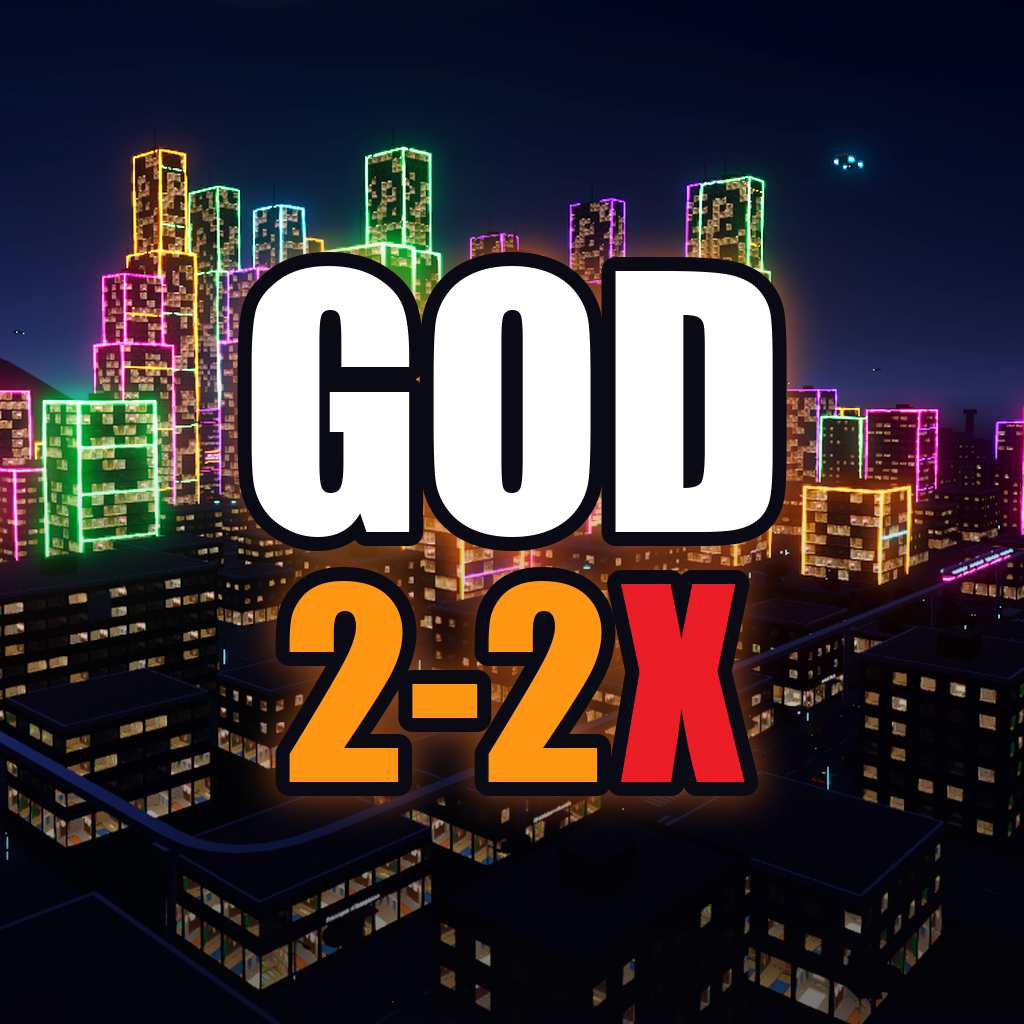
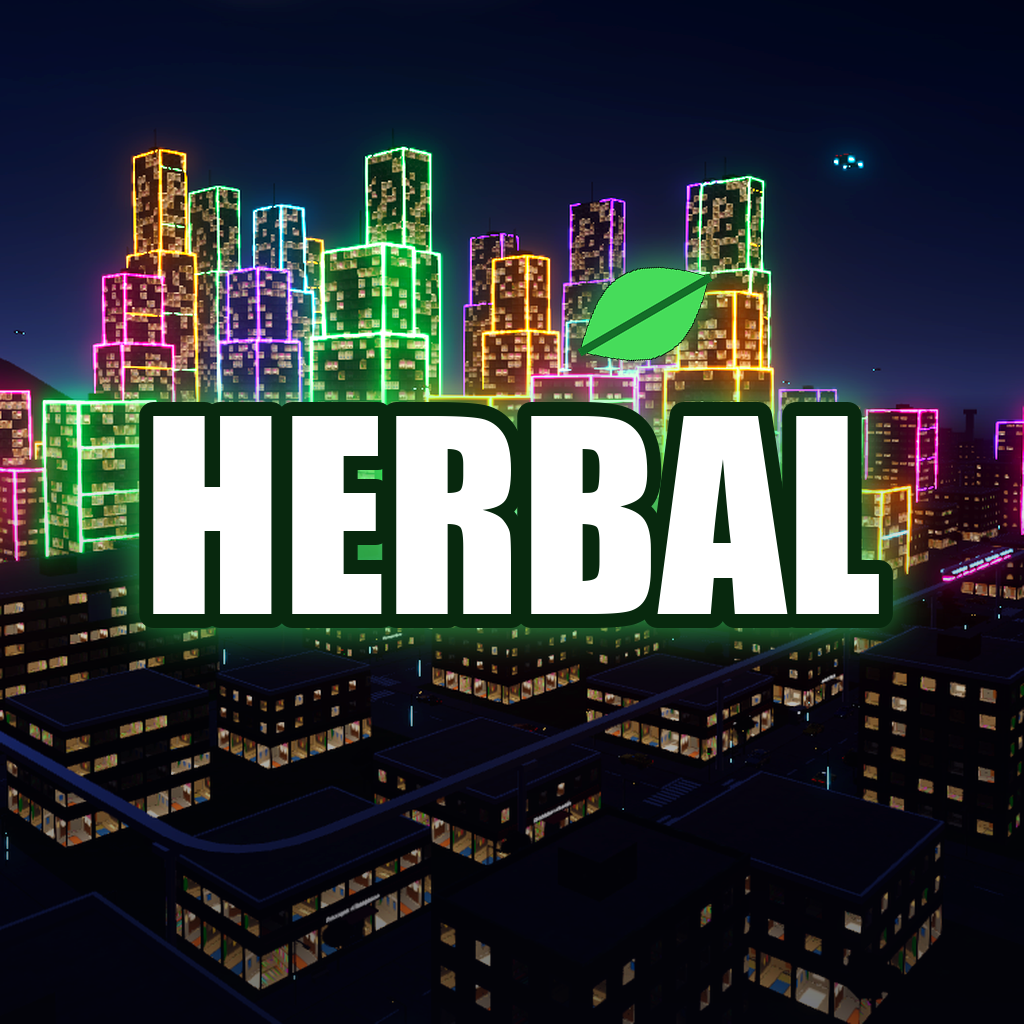
v0.5 Herbal: rename, main menu, touch camera fix

Changed region(s): [[0.0938, 0.2188, 0.9062, 0.8125]]

diff --git a/UnityProject/Assets/WebGLTemplates/Gad/index.html b/UnityProject/Assets/WebGLTemplates/Gad/index.html
@@ -6,7 +6,7 @@
   <meta name="mobile-web-app-capable" content="yes">
   <meta name="apple-mobile-web-app-capable" content="yes">
   <meta name="apple-mobile-web-app-status-bar-style" content="black-translucent">
-  <meta name="apple-mobile-web-app-title" content="GOD 2-2X">
+  <meta name="apple-mobile-web-app-title" content="Herbal">
   <link rel="apple-touch-icon" href="apple-touch-icon.png">
   <meta name="theme-color" content="#050912">
   <title>{{{ PRODUCT_NAME }}}</title>

diff --git a/UnityProject/Assets/Scripts/UI/MainMenu.cs b/UnityProject/Assets/Scripts/UI/MainMenu.cs
@@ -1,0 +1,120 @@
+using TMPro;
+using UnityEngine;
+using UnityEngine.UI;
+
+namespace Gad
+{
+    /// <summary>
+    /// The title screen: the live city behind (a slow cinematic camera circling the player's street),
+    /// the HERBAL logo and the main buttons — play, character, settings. Shown on every start and from
+    /// the phone; the HUD and the player's controls are off while it is open.
+    /// </summary>
+    public class MainMenu : MonoBehaviour
+    {
+        public static MainMenu I;
+        public static bool Open => I != null && I.gameObject.activeSelf;
+
+        TextMeshProUGUI nick, online;
+        Vector3 centre;
+        float t;
+
+        public static void Show()
+        {
+            if (I == null)
+            {
+                var rt = UIKit.Fill(UIKit.Rect("MainMenu", UIRoot.Root));
+                rt.SetSiblingIndex(UIRoot.WinLayer.GetSiblingIndex());   // above the HUD, under the windows
+                I = rt.gameObject.AddComponent<MainMenu>();
+                I.Build();
+            }
+            if (UIRoot.Open != null) Window.Close();
+            I.gameObject.SetActive(true);
+            I.centre = PlayerCtl.I != null ? PlayerCtl.I.transform.position : City.Spawn;
+            if (PlayerCtl.I != null) PlayerCtl.I.MoveInput = Vector2.zero;
+            UIRoot.HudLayer.gameObject.SetActive(false);
+            PlayerCtl.ShotCam = true;
+            I.Refresh();
+        }
+
+        public static void Hide()
+        {
+            if (I == null) return;
+            I.gameObject.SetActive(false);
+            UIRoot.HudLayer.gameObject.SetActive(true);
+            PlayerCtl.ShotCam = false;
+        }
+
+        void Build()
+        {
+            var t = transform;
+            var safe = UIRoot.Safe();
+            float sl = Mathf.Max(40, safe.x + 24);
+
+            // a dark band on the left so the logo and buttons read over any part of the city
+            var band = UIKit.Img(t, UIKit.White, new Color(0.02f, 0.04f, 0.08f, 0.72f), "Band", true);
+            band.rectTransform.anchorMin = Vector2.zero; band.rectTransform.anchorMax = new Vector2(0.46f, 1f);
+            band.rectTransform.offsetMin = band.rectTransform.offsetMax = Vector2.zero;
+            var edge = UIKit.Img(band.transform, UIKit.White, new Color(0.3f, 1f, 0.45f, 0.55f), "Edge");
+            edge.rectTransform.anchorMin = new Vector2(1, 0); edge.rectTransform.anchorMax = Vector2.one;
+            edge.rectTransform.offsetMin = new Vector2(-4, 0); edge.rectTransform.offsetMax = Vector2.zero;
+
+            var col = UIKit.Rect("Column", band.transform);
+            col.anchorMin = Vector2.zero; col.anchorMax = Vector2.one;
+            col.offsetMin = new Vector2(sl, 40); col.offsetMax = new Vector2(-40, -40);
+
+            // logo: HERBAL with a green leaf, and the tagline
+            var logo = UIKit.Txt(col, "HERBAL", 150, Color.white, TextAlignmentOptions.Left);
+            UIKit.Place(logo.rectTransform, new Vector2(0, 1), new Vector2(0, 1), new Vector2(0, -20), new Vector2(820, 170));
+            logo.enableAutoSizing = true; logo.fontSizeMin = 60; logo.fontSizeMax = 150;
+            logo.outlineColor = new Color32(20, 120, 50, 255); logo.outlineWidth = 0.18f;
+            var bar = UIKit.Img(col, UIKit.Pill, UIKit.Lime, "Bar");
+            UIKit.Place(bar.rectTransform, new Vector2(0, 1), new Vector2(0, 1), new Vector2(6, -196), new Vector2(260, 10));
+            var tag = UIKit.Txt(col, "ГОРОД БУДУЩЕГО · ОНЛАЙН", 30, UIKit.Muted, TextAlignmentOptions.Left);
+            UIKit.Place(tag.rectTransform, new Vector2(0, 1), new Vector2(0, 1), new Vector2(4, -214), new Vector2(820, 44));
+
+            // buttons
+            float y = -300;
+            UIButton Btn(string label, Color c, System.Action a, float h, float font)
+            {
+                var b = UIKit.Button(col, label, c, a, font);
+                UIKit.Place(b.Bg.rectTransform, new Vector2(0, 1), new Vector2(0, 1), new Vector2(0, y), new Vector2(560, h));
+                y -= h + 18;
+                return b;
+            }
+            Btn("ИГРАТЬ", new Color(0.15f, 0.72f, 0.32f), Play, 120, 52);
+            Btn("ПЕРСОНАЖ", new Color(0.2f, 0.42f, 0.85f), () => Menus.Dress(false), 86, 34);
+            Btn("НАСТРОЙКИ", new Color(0.32f, 0.36f, 0.45f), Menus.Settings, 86, 34);
+
+            nick = UIKit.Txt(col, "", 28, Color.white, TextAlignmentOptions.BottomLeft);
+            UIKit.Place(nick.rectTransform, Vector2.zero, Vector2.zero, new Vector2(0, 46), new Vector2(820, 40));
+            online = UIKit.Txt(col, "", 24, UIKit.Lime, TextAlignmentOptions.BottomLeft);
+            UIKit.Place(online.rectTransform, Vector2.zero, Vector2.zero, new Vector2(0, 8), new Vector2(820, 34));
+        }
+
+        void Refresh()
+        {
+            bool hasNick = Save.D.created && !string.IsNullOrEmpty(Save.D.name) && Save.D.name.Length >= 3;
+            nick.text = hasNick ? "Игрок: " + Save.D.name + "   " + Hud.Money(Save.D.money) : "Новый игрок";
+        }
+
+        void Play()
+        {
+            Hide();
+            if (!Save.D.created || string.IsNullOrEmpty(Save.D.name) || Save.D.name.Length < 3) Menus.Nick();
+            else Hud.Toast("С возвращением, " + Save.D.name + "!", UIKit.Cyan);
+        }
+
+        void LateUpdate()
+        {
+            // slow orbit round the player's street, high enough to see the rooftops and the skyline
+            t += Time.unscaledDeltaTime;
+            float a = t * 0.06f;
+            var pos = centre + new Vector3(Mathf.Sin(a) * 80f, 48f + Mathf.Sin(t * 0.13f) * 5f, Mathf.Cos(a) * 80f);
+            PlayerCtl.ShotCam = true;
+            PlayerCtl.ShotPos = pos;
+            PlayerCtl.ShotLook = centre + Vector3.up * 8f;
+            online.text = "● в мире: " + (WorldNet.OnlineCount + 1) + (WorldNet.Connected ? "" : "  (подключение…)");
+            if (UIRoot.Open == null) Refresh();
+        }
+    }
+}

diff --git a/UnityProject/Assets/Scripts/UI/Menus.cs b/UnityProject/Assets/Scripts/UI/Menus.cs
@@ -27,6 +27,7 @@ namespace Gad
                 w.Row("Такси (быстро)", "Перенестись в любое место города за $60", "ВЫБРАТЬ", Orange, () => Travel(null));
                 w.Row("Скины", "Готовые образы: бизнесмен, киберпанк, инопланетянин…", "СКИНЫ", new Color(0.55f, 0.3f, 0.9f), Skins);
                 w.Row("Настройки", "Графика, звук, имя", "ОТКРЫТЬ", Grey, Settings);
+                w.Row("Главное меню", "Выйти на титульный экран Herbal", "МЕНЮ", Grey, MainMenu.Show);
             });
         }
 
@@ -175,7 +176,7 @@ namespace Gad
         public static void RealEstate()
         {
             int tab = 0;
-            Window.Show("GOD CITY · НЕДВИЖИМОСТЬ", w =>
+            Window.Show("HERBAL CITY · НЕДВИЖИМОСТЬ", w =>
             {
                 var tabs = new List<(string, Color, bool, System.Action)>
                 {
@@ -583,7 +584,7 @@ namespace Gad
                 UIKit.Fill(input.GetComponent<RectTransform>(), 0, 4, 220, 4);
                 var ok = UIKit.Button(row, "СОХРАНИТЬ", Green, () => { if (input.text.Trim().Length >= 2) { Save.D.name = input.text.Trim(); Save.Write(); Hud.Toast("Имя изменено"); } }, 24);
                 UIKit.Place(ok.Bg.rectTransform, new Vector2(1, 0.5f), new Vector2(1, 0.5f), Vector2.zero, new Vector2(210, 76));
-                w.Text("GOD 2-2X · версия " + Application.version + "\nУправление на компьютере: WASD — ходьба/руль, мышь (правая кнопка) — камера, Shift — бег, Пробел — прыжок/тормоз, E — действие, F — сесть/выйти.", 22, UIKit.Muted);
+                w.Text("Herbal · версия " + Application.version + "\nУправление на компьютере: WASD — ходьба/руль, мышь (правая кнопка) — камера, Shift — бег, Пробел — прыжок/тормоз, E — действие, F — сесть/выйти.", 22, UIKit.Muted);
             });
         }
 
@@ -598,7 +599,7 @@ namespace Gad
         /// <summary>First launch: the player must choose a nickname before anything else.</summary>
         public static void Nick()
         {
-            var w = Window.Show("ДОБРО ПОЖАЛОВАТЬ В GOD 2-2X", win =>
+            var w = Window.Show("ДОБРО ПОЖАЛОВАТЬ В Herbal", win =>
             {
                 win.Text("Придумайте ник — его увидят другие игроки над вашей головой и в чате.", 28);
                 var row = UIKit.Rect("Nick", win.Content);
@@ -651,7 +652,7 @@ namespace Gad
                     PlayerCtl.I.Body.Rebuild(Save.D.skin);
                     WorldNet.LookChanged();
                     Window.Close();
-                    if (creation) Hud.Toast("Добро пожаловать в GOD 2-2X, " + Save.D.name + "!", UIKit.Cyan);
+                    if (creation) Hud.Toast("Добро пожаловать в Herbal, " + Save.D.name + "!", UIKit.Cyan);
                 });
                 var tabs = new List<(string, Color, bool, System.Action)>();
                 for (int i = 0; i < Depts.Length; i++) { int k = i; tabs.Add((Depts[i].name, new Color(0.2f, 0.4f, 0.75f), dept == i, () => { dept = k; Window.Refresh(); })); }

diff --git a/assets_src/tools/appicon.py b/assets_src/tools/appicon.py
@@ -1,4 +1,4 @@
-"""GOD 2-2X app icon: the night skyline from the game with the logo. Usage: python3 appicon.py shot.png outdir"""
+"""Herbal app icon: the night skyline from the game with the logo. Usage: python3 appicon.py shot.png outdir"""
 import sys
 from PIL import Image, ImageDraw, ImageFont, ImageFilter, ImageEnhance
 shot, out = sys.argv[1], sys.argv[2]
@@ -7,18 +7,23 @@ bg = im.crop((int(232*k), int(60*k), int(612*k), int(440*k))).resize((1024, 1024
 bg = ImageEnhance.Color(ImageEnhance.Brightness(bg).enhance(1.25)).enhance(1.25)
 F = "/System/Library/Fonts/Supplemental/Impact.ttf"
 def logo(size, scale=1.0):
+    """HERBAL in white with a green outline glow and a leaf over the A."""
     L = Image.new("RGBA", size, (0, 0, 0, 0)); d = ImageDraw.Draw(L)
-    big = ImageFont.truetype(F, int(330*scale)); mid = ImageFont.truetype(F, int(250*scale))
-    cx = size[0] // 2
-    parts = [("2-2", mid, (255, 150, 20)), ("X", mid, (235, 30, 40))]
-    # GOD on top, 2-2X below
-    def stroke_text(xy, s, font, fill, anchor):
-        d.text(xy, s, font=font, fill=fill, anchor=anchor, stroke_width=int(14*scale), stroke_fill=(10, 10, 20))
-    stroke_text((cx, int(size[1]*0.52)), "GOD", big, (255, 255, 255), "ms")
-    w22 = d.textlength("2-2", font=mid); wx = d.textlength("X", font=mid); gap = 14*scale
-    x0 = cx - (w22 + gap + wx) / 2; y = int(size[1]*0.52 + 250*scale)
-    stroke_text((x0, y), "2-2", mid, parts[0][2], "ls"); stroke_text((x0 + w22 + gap, y), "X", mid, parts[1][2], "ls")
-    glow = L.filter(ImageFilter.GaussianBlur(18*scale)); g = Image.new("RGBA", size, (255, 120, 30, 0)); g.putalpha(glow.split()[3].point(lambda a: a*0.6))
+    font = ImageFont.truetype(F, int(250*scale))
+    cx, y = size[0] // 2, int(size[1]*0.6)
+    d.text((cx, y), "HERBAL", font=font, fill=(255, 255, 255), anchor="ms", stroke_width=int(14*scale), stroke_fill=(8, 40, 14))
+    w = d.textlength("HERBAL", font=font)
+    # a leaf above the text: two arcs meeting at the tips, with a vein
+    lx, ly, lw, lh = cx + w*0.18, y - 300*scale, 150*scale, 90*scale
+    import math
+    pts = [(lx + lw*math.cos(a)*0.5*(1 if i < 20 else 1), ly - lh*math.sin(a)*0.5*(1 if i < 20 else -1)) for i, a in enumerate([k*math.pi/19 for k in range(20)] + [k*math.pi/19 for k in range(19, -1, -1)])]
+    pts = [(lx - lw/2 + lw*k/19, ly - lh/2*math.sin(k*math.pi/19)) for k in range(20)] + [(lx + lw/2 - lw*k/19, ly + lh/2*math.sin(k*math.pi/19)) for k in range(20)]
+    leaf = Image.new("RGBA", size, (0, 0, 0, 0)); ld = ImageDraw.Draw(leaf)
+    ld.polygon(pts, fill=(70, 220, 90), outline=(8, 40, 14))
+    ld.line([(lx - lw/2, ly), (lx + lw/2, ly)], fill=(20, 110, 40), width=int(8*scale))
+    leaf = leaf.rotate(30, center=(lx, ly), resample=Image.BICUBIC)
+    L = Image.alpha_composite(L, leaf)
+    glow = L.filter(ImageFilter.GaussianBlur(20*scale)); g = Image.new("RGBA", size, (60, 255, 110, 0)); g.putalpha(glow.split()[3].point(lambda a: a*0.7))
     return Image.alpha_composite(g, L)
 shade = Image.new("RGBA", (1024, 1024), (0, 0, 0, 0)); sd = ImageDraw.Draw(shade)
 for y in range(1024): sd.line([(0, y), (1024, y)], fill=(5, 5, 15, int(150 * max(0, (y - 380) / 644))))

diff --git a/UnityProject/Assets/Scripts/Core/AutoTest.cs b/UnityProject/Assets/Scripts/Core/AutoTest.cs
@@ -398,6 +398,28 @@ namespace Gad
             Menus.Phone(); yield return Wait(0.4f); yield return Shot("60_phone"); Window.Close();
             Menus.Map(); yield return Wait(0.4f); yield return Shot("61_map"); Window.Close();
             Menus.Dress(false, true); yield return Wait(5f); yield return Shot("62_create"); Window.Close();
+            // title screen
+            MainMenu.Show(); yield return Wait(1.5f); yield return Shot("66_main_menu");
+            Check("главное меню открыто, HUD спрятан", MainMenu.Open && !UIRoot.HudLayer.gameObject.activeSelf);
+            MainMenu.Hide(); yield return null;
+            Check("из меню в игру", !MainMenu.Open && UIRoot.HudLayer.gameObject.activeSelf && !PlayerCtl.ShotCam);
+            // touch camera: a new touch reusing a finger id must not throw the camera to the old spot
+            {
+                var la = FindFirstObjectByType<LookArea>();
+                var es = UnityEngine.EventSystems.EventSystem.current;
+                float yaw0 = pl.Yaw, pitch0 = pl.Pitch;
+                var e = new UnityEngine.EventSystems.PointerEventData(es) { pointerId = 0, position = new Vector2(Screen.width * 0.8f, Screen.height * 0.2f) };
+                la.OnPointerDown(e); la.OnPointerUp(e);
+                e = new UnityEngine.EventSystems.PointerEventData(es) { pointerId = 0, position = new Vector2(Screen.width * 0.3f, Screen.height * 0.7f), delta = new Vector2(-900, 500) };
+                la.OnPointerDown(e);
+                e.position += new Vector2(40, 0); e.delta = new Vector2(-860, 500); la.OnDrag(e);
+                yield return null;
+                float dy = Mathf.DeltaAngle(yaw0, pl.Yaw);
+                Check("камера пальцем: вправо → вправо, без рывка", dy > 2f && dy < 30f && Mathf.Abs(pl.Pitch - pitch0) < 3f, $"поворот {dy:0.0}°");
+                e.position += new Vector2(0, -60); la.OnDrag(e); yield return null;
+                Check("камера пальцем: вниз → смотрит вниз", pl.Pitch > pitch0 + 1f, $"наклон {pl.Pitch - pitch0:0.0}°");
+                la.OnPointerUp(e);
+            }
             Menus.CarDealer(dealer); yield return Wait(0.4f); yield return Shot("63_dealer"); Window.Close();
             Menus.Skins(); yield return Wait(0.4f); yield return Shot("64_skins"); Window.Close();
             int bad = 0;

diff --git a/UnityProject/Assets/Scripts/Core/Defs.cs b/UnityProject/Assets/Scripts/Core/Defs.cs
@@ -47,12 +47,12 @@ namespace Gad
             [BType.JobCenter] = new BInfo { Title = "Центр занятости", Names = new[] { "Центр занятости" }, Sign = new Color(0.15f, 0.6f, 0.8f) },
             [BType.GasStation] = new BInfo { Title = "Заправка", Names = new[] { "АЗС «Петрол»", "АЗС «Газ+»" }, BizPrice = 110000, Sign = new Color(0.1f, 0.65f, 0.3f) },
             [BType.Parking] = new BInfo { Title = "Подземная парковка", Names = new[] { "Паркинг P1", "Паркинг P2", "Паркинг «Центр»" }, BizPrice = 150000, Sign = new Color(0.15f, 0.4f, 0.9f) },
-            [BType.Airport] = new BInfo { Title = "Аэропорт", Names = new[] { "Аэропорт GOD" }, Sign = new Color(0.2f, 0.5f, 0.9f) },
+            [BType.Airport] = new BInfo { Title = "Аэропорт", Names = new[] { "Аэропорт Herbal" }, Sign = new Color(0.2f, 0.5f, 0.9f) },
             [BType.Station] = new BInfo { Title = "Вокзал", Names = new[] { "Центральный вокзал" }, Sign = new Color(0.35f, 0.35f, 0.75f) },
             [BType.Port] = new BInfo { Title = "Морской порт", Names = new[] { "Морской порт" }, Sign = new Color(0.1f, 0.4f, 0.7f) },
             [BType.Clothes] = new BInfo { Title = "Магазин одежды", Names = new[] { "Бутик «Стиль»", "Одежда «Тренд»", "Мода Плюс" }, BizPrice = 75000, Sign = new Color(0.9f, 0.3f, 0.6f) },
             [BType.Furniture] = new BInfo { Title = "Мебельный", Names = new[] { "Мебель «Дом»", "Интерьер Центр" }, BizPrice = 85000, Sign = new Color(0.6f, 0.45f, 0.3f) },
-            [BType.Agency] = new BInfo { Title = "Агентство недвижимости", Names = new[] { "GOD City · Недвижимость" }, Sign = new Color(0.2f, 0.9f, 1f) },
+            [BType.Agency] = new BInfo { Title = "Агентство недвижимости", Names = new[] { "Herbal City · Недвижимость" }, Sign = new Color(0.2f, 0.9f, 1f) },
             [BType.Gym] = new BInfo { Title = "Спортзал", Names = new[] { "Фитнес «Сила»", "Спортзал «Атлет»" }, BizPrice = 65000, Sign = new Color(0.95f, 0.35f, 0.1f) },
         };
     }

diff --git a/UnityProject/Assets/Scripts/World/Interiors.cs b/UnityProject/Assets/Scripts/World/Interiors.cs
@@ -864,7 +864,7 @@ namespace Gad
                     Sofa(new Vector3(9, 0, 4), 270, new Color(0.9f, 0.9f, 0.92f)); Sofa(new Vector3(-6, 0, 4), 90, new Color(0.9f, 0.9f, 0.92f));
                     for (int k = 0; k < 4; k++) Npc(new Vector3(-4 + k * 3, 0, 6 + (k % 2) * 2), k * 90, b.id + 40 + k, 0);
                     Plant(new Vector3(-13.5f, 0, 20.5f), 1.4f); Plant(new Vector3(13.5f, 0, 1.5f), 1.4f);
-                    Sign(new Vector3(0, 5.6f, 21.8f), "GOD CITY · НЕДВИЖИМОСТЬ", new Color(0.2f, 0.9f, 1f), 7);
+                    Sign(new Vector3(0, 5.6f, 21.8f), "HERBAL CITY · НЕДВИЖИМОСТЬ", new Color(0.2f, 0.9f, 1f), 7);
                     Sign(new Vector3(EX, 3.4f, 21.85f), "ЛИФТ · 20 ЭТАЖЕЙ", Color.white, 2.5f);
                     for (int k = 0; k < 3; k++) Point(new Vector3(-8 + k * 8, 0, 16.2f), "АГЕНТ: КУПИТЬ ЖИЛЬЁ", () => Menus.RealEstate());
                     Point(new Vector3(2, 0, 6), "МАКЕТ ГОРОДА: ВСЁ ЖИЛЬЁ", () => Menus.RealEstate());
@@ -1054,7 +1054,7 @@ namespace Gad
                         if (rng.Chance(0.55f)) Npc(p + new Vector3(0, 0, -0.75f), 0, b.id * 13 + (int)(x * 7 + z * 3) + floor * 101, 2, 3);
                     }
                 Plant(new Vector3(-w / 2 + 1, 0, d - 1)); Plant(new Vector3(w / 2 - 1, 0, d - 1));
-                string title = b.type == BType.Agency ? "АГЕНТСТВО «GOD CITY» · ЭТАЖ " + (floor + 1) : b.name + " · ЭТАЖ " + (floor + 1);
+                string title = b.type == BType.Agency ? "АГЕНТСТВО «HERBAL CITY» · ЭТАЖ " + (floor + 1) : b.name + " · ЭТАЖ " + (floor + 1);
                 Sign(new Vector3(0, 2.8f, d - 0.1f), title, b.Info.Sign, 4);
                 Point(new Vector3(3.5f, 0, 3.5f), b.type == BType.Agency ? "АГЕНТ: КУПИТЬ ЖИЛЬЁ" : "РЕСЕПШН: РАБОТА И БИЗНЕС", () => { if (b.type == BType.Agency) Menus.RealEstate(); else Menus.Building(b); });
             }

diff --git a/UnityProject/Assets/Scripts/UI/UIKit.cs b/UnityProject/Assets/Scripts/UI/UIKit.cs
@@ -289,16 +289,31 @@ namespace Gad
         }
     }
 
-    /// <summary>Drag anywhere on the right part of the screen to turn the camera.</summary>
+    /// <summary>
+    /// Drag anywhere on the right part of the screen to turn the camera: the view follows the finger
+    /// (left→right turns right, up→down looks down). The movement is measured from where this finger
+    /// touched, not from Unity's delta: on phones a finger id is reused, and the first delta of a new
+    /// touch is measured from where the previous touch with that id ended (e.g. the jump button),
+    /// which threw the camera there.
+    /// </summary>
     public class LookArea : MonoBehaviour, IPointerDownHandler, IDragHandler, IPointerUpHandler
     {
         int pointer = int.MinValue;
-        public void OnPointerDown(PointerEventData e) { if (pointer == int.MinValue) { pointer = e.pointerId; UIRoot.LookActive = true; } }
+        Vector2 last;
+        public void OnPointerDown(PointerEventData e)
+        {
+            if (pointer != int.MinValue) return;
+            pointer = e.pointerId; last = e.position; UIRoot.LookActive = true;
+        }
         public void OnDrag(PointerEventData e)
         {
             if (e.pointerId != pointer || PlayerCtl.I == null) return;
+            var d = e.position - last;
+            last = e.position;
+            float lim = Screen.height * 0.25f;
+            if (d.sqrMagnitude > lim * lim) return;   // a stray jump, never a real finger move
             float k = 1600f / Mathf.Max(800, Screen.width) * 0.9f;
-            PlayerCtl.I.LookDelta += new Vector2(e.delta.x * k, -e.delta.y * k * 0.8f);
+            PlayerCtl.I.LookDelta += new Vector2(d.x * k, -d.y * k * 0.8f);
         }
         public void OnPointerUp(PointerEventData e) { if (e.pointerId == pointer) { pointer = int.MinValue; UIRoot.LookActive = false; } }
         void OnDisable() { pointer = int.MinValue; UIRoot.LookActive = false; }

diff --git a/UnityProject/Assets/Scripts/Core/Boot.cs b/UnityProject/Assets/Scripts/Core/Boot.cs
@@ -56,8 +56,7 @@ namespace Gad
 
             if (Has("-autotest")) gameObject.AddComponent<AutoTest>();
             else if (Has("-mptest")) gameObject.AddComponent<AutoTest>().Multiplayer = true;
-            else if (!Save.D.created || string.IsNullOrEmpty(Save.D.name) || Save.D.name.Length < 3) Menus.Nick();
-            else Hud.Toast("С возвращением, " + Save.D.name + "!", UIKit.Cyan);
+            else MainMenu.Show();
         }
 
         void Update()
@@ -70,9 +69,9 @@ namespace Gad
                 Save.D.px = p.x; Save.D.py = p.y; Save.D.pz = p.z; Save.D.pyaw = pl.transform.eulerAngles.y;
             }
             if (!Has("-autotest") && !Has("-mptest")) Save.Tick();
-            if (Input.GetKeyDown(KeyCode.Escape)) { if (UIRoot.Open != null) Window.Close(); else Menus.Phone(); }
-            if (Input.GetKeyDown(KeyCode.M) && !UIRoot.TypingText) { if (UIRoot.Open != null) Window.Close(); else Menus.Map(); }
-            if (Input.GetKeyDown(KeyCode.Return) && !UIRoot.TypingText && UIRoot.Open == null) Menus.Chat();
+            if (Input.GetKeyDown(KeyCode.Escape)) { if (UIRoot.Open != null) Window.Close(); else if (!MainMenu.Open) Menus.Phone(); }
+            if (Input.GetKeyDown(KeyCode.M) && !UIRoot.TypingText && !MainMenu.Open) { if (UIRoot.Open != null) Window.Close(); else Menus.Map(); }
+            if (Input.GetKeyDown(KeyCode.Return) && !UIRoot.TypingText && UIRoot.Open == null && !MainMenu.Open) Menus.Chat();
         }
 
         void OnApplicationPause(bool paused) { if (paused && !Has("-autotest")) Save.Write(); }

diff --git a/UnityProject/Assets/Scripts/World/FutureCity.cs b/UnityProject/Assets/Scripts/World/FutureCity.cs
@@ -176,7 +176,7 @@ namespace Gad
                 go.transform.rotation = Quaternion.Euler(0, yaw, 0);
                 var t = go.AddComponent<TextMeshPro>();
                 t.font = UIKit.Font; t.fontSharedMaterial = UIKit.TextOutline;
-                t.text = "GOD CITY"; t.fontSize = 40; t.alignment = TextAlignmentOptions.Center;
+                t.text = "HERBAL CITY"; t.fontSize = 40; t.alignment = TextAlignmentOptions.Center;
                 t.color = new Color(0.4f, 0.95f, 1f);
                 t.rectTransform.sizeDelta = new Vector2(30, 8);
                 t.textWrappingMode = TextWrappingModes.NoWrap;
@@ -332,7 +332,7 @@ namespace Gad
     {
         static readonly string[] Ads =
         {
-            "GOD 2-2X\nДОБРО ПОЖАЛОВАТЬ В БУДУЩЕЕ", "ЭЛЕКТРОКАР VOLT\n0–100 ЗА 2,9 С", "GOD CITY\nПЕНТХАУСЫ С ВИДОМ НА МОРЕ",
+            "Herbal\nДОБРО ПОЖАЛОВАТЬ В БУДУЩЕЕ", "ЭЛЕКТРОКАР VOLT\n0–100 ЗА 2,9 С", "HERBAL CITY\nПЕНТХАУСЫ С ВИДОМ НА МОРЕ",
             "АЭРОТАКСИ\nВЫШЕ ПРОБОК", "НЕОН КОЛА\nВКУС НОЧНОГО ГОРОДА", "BMW 5 SERIES\nДИНАМИКА БИЗНЕСА", "ТРЦ «МЕГА»\nСКИДКИ ДО 70%", "РАБОТА МЕЧТЫ\nЦЕНТР ЗАНЯТОСТИ",
         };
         TextMeshPro text;

diff --git a/UnityProject/Assets/Scripts/Player/PlayerCtl.cs b/UnityProject/Assets/Scripts/Player/PlayerCtl.cs
@@ -73,7 +73,7 @@ namespace Gad
 
         void Keys()
         {
-            if (UIRoot.TypingText) return;
+            if (UIRoot.TypingText || MainMenu.Open) return;
             var k = new Vector2((Input.GetKey(KeyCode.D) ? 1 : 0) - (Input.GetKey(KeyCode.A) ? 1 : 0), (Input.GetKey(KeyCode.W) ? 1 : 0) - (Input.GetKey(KeyCode.S) ? 1 : 0));
             if (Input.GetKey(KeyCode.RightArrow)) k.x = 1; if (Input.GetKey(KeyCode.LeftArrow)) k.x = -1;
             if (Input.GetKey(KeyCode.UpArrow)) k.y = 1; if (Input.GetKey(KeyCode.DownArrow)) k.y = -1;

diff --git a/UnityProject/Assets/Editor/ProjectSetup.cs b/UnityProject/Assets/Editor/ProjectSetup.cs
@@ -292,7 +292,7 @@ public static class ProjectSetup
     static void SetupPlayer()
     {
         PlayerSettings.companyName = "Aleksandr Kuzmenko";
-        PlayerSettings.productName = "GOD 2-2X";
+        PlayerSettings.productName = "Herbal";
         PlayerSettings.colorSpace = ColorSpace.Linear;
         PlayerSettings.runInBackground = true;
         PlayerSettings.SetApplicationIdentifier(NamedBuildTarget.Android, "com.aleksandrkuzmenko.gad22x");
